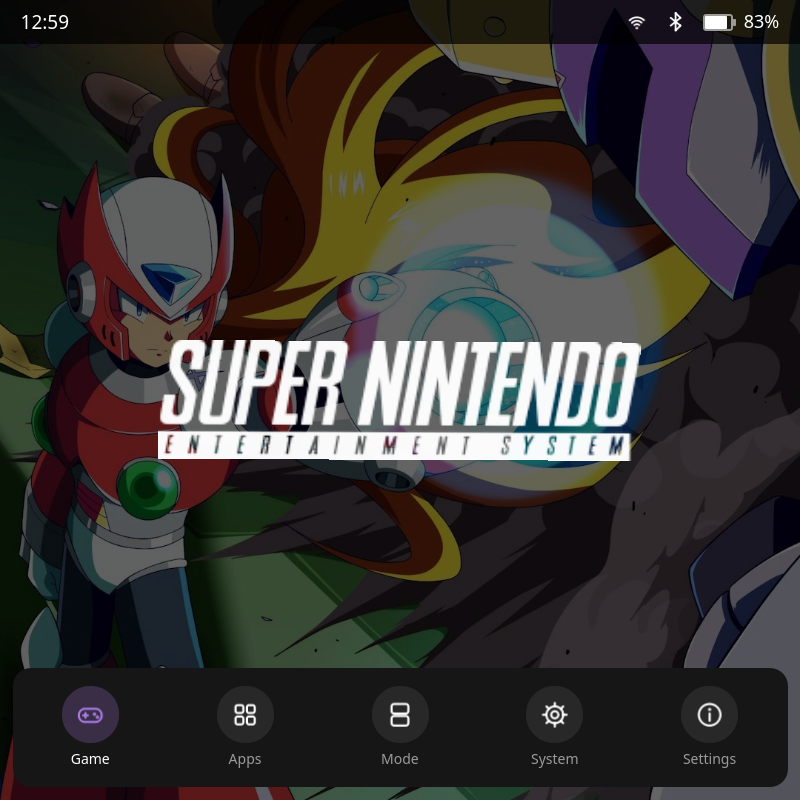
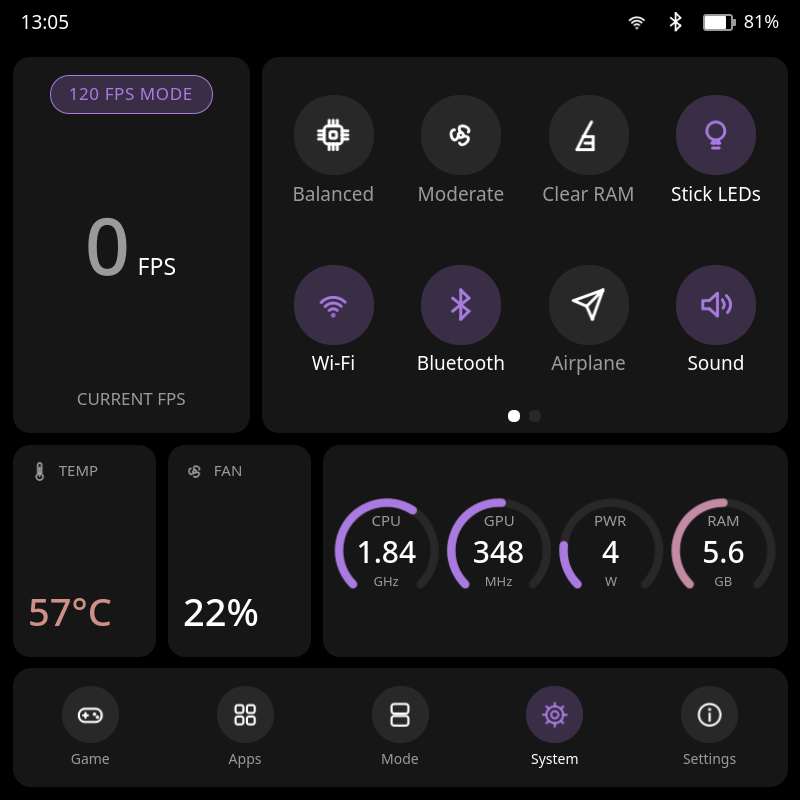
Fix screenshots, document in-app setup, pin a state in snapshot mode
The Apps, Mode, Settings and Tuning screenshots showed the Game page: with ES-DE
running, its last event sent the window back to "Game" while rendering. Snapshots
now always pin a fixed state. The README says the root helper and the AYN button
are installed and activated from Settings > Setup in the app.

diff --git a/armadalive/app.py b/armadalive/app.py
@@ -46,9 +46,10 @@ def main():
         out = sys.argv[sys.argv.index("--snapshot") + 1]
         page = int(sys.argv[sys.argv.index("--page") + 1]) if "--page" in sys.argv else 0
         window = engine.rootObjects()[0]
-        if "--demo" in sys.argv:  # pin a game state: {"event": {...}} like ES-DE sends, or {"ui": [appid, "name"]} for Steam's UI
-            demo = json.loads(sys.argv[sys.argv.index("--demo") + 1])
-            backends["nowPlaying"].pin(demo.get("event"), demo.get("ui"))
+        # a snapshot always shows a fixed game state, otherwise whatever ES-DE or Steam is doing at that moment throws the page
+        # back to "Game": {"event": {...}} like ES-DE sends, or {"ui": [appid, "name"]} for Steam's UI; none means idle
+        demo = json.loads(sys.argv[sys.argv.index("--demo") + 1]) if "--demo" in sys.argv else {}
+        backends["nowPlaying"].pin(demo.get("event"), demo.get("ui"))
         window.setProperty("page", ["now", "apps", "mode", "system", "prefs", "tuning", "cheats", "manual"][page] if page < 8 else "now")
         if "--lang" in sys.argv:  # for screenshots: not written to the settings file
             backends["ui"]._s["lang"] = sys.argv[sys.argv.index("--lang") + 1]

diff --git a/README.md b/README.md
@@ -49,7 +49,8 @@ belongs to its owners; ArmadaLive does not ship any of it.
   airplane mode, sound, screenshot, GPU clock), temperature, fan, and gauges for CPU, GPU, power and RAM.
 - **Tuning** – reached from the *Tuning* tile on System: CPU governor, underclock, GPU limits and a draggable fan-curve
   editor for each power profile. Needs the root helper.
-- **Settings** – English or German, five themes with accent colours, logo animation on or off, in-app updates, about.
+- **Settings** – English or German, five themes with accent colours, logo animation on or off, in-app updates, and **Setup**: install the
+  root helper and route the AYN button with one tap each (password prompt, greyed out once done). About and AI disclosure.
 
 ## Requirements
 
@@ -71,10 +72,13 @@ cd armadalive
 That installs ArmadaLive for your user only, no root needed, and starts it. It runs as a user service, starts at login and
 adds an **ArmadaLive** entry to the app menu.
 
+**Then open ArmadaLive → Settings → Setup.** The *root helper* (fan curves, profile tuning, stick LEDs, *Clear RAM*) and the *AYN button*
+are installed and activated right there: tap *Install* or *Set up*, type your password, done. You do not need a terminal for this.
+
 ### Optional steps
 
-Open ArmadaLive, go to **Settings → Setup** and tap the buttons there. Each asks for your password, passes it to `sudo` and
-nothing else, and greys out once it is done. The same steps work from a terminal if you prefer.
+Steps 2 and 3 are the two buttons under **Settings → Setup** in the app. Each asks for your password, passes it to `sudo` and
+nothing else, and greys out once it is done. The terminal commands below do the same thing and are listed for SSH users.
 
 1. **ES-DE events.** In ES-DE press START, open *Other Settings* and turn on **Custom Event Scripts** and **Browsing Custom
    Event Scripts**, then leave the menu so ES-DE saves. `install.sh` has already put its hooks in `~/ES-DE/scripts`.
@@ -108,6 +112,7 @@ nothing else, and greys out once it is done. The same steps work from a terminal
 | AYN button | bring ArmadaLive to the front, always |
 | Press and hold an app tile | choose another app for that slot |
 | Tap the *120 FPS MODE* pill | switch the frame limit between 60 and 120 |
+| *Settings → Setup* | install the root helper and route the AYN button, no terminal needed |
 
 Settings are stored in `~/.config/armadalive/` (`ui.json`, `apps.json`).
 
